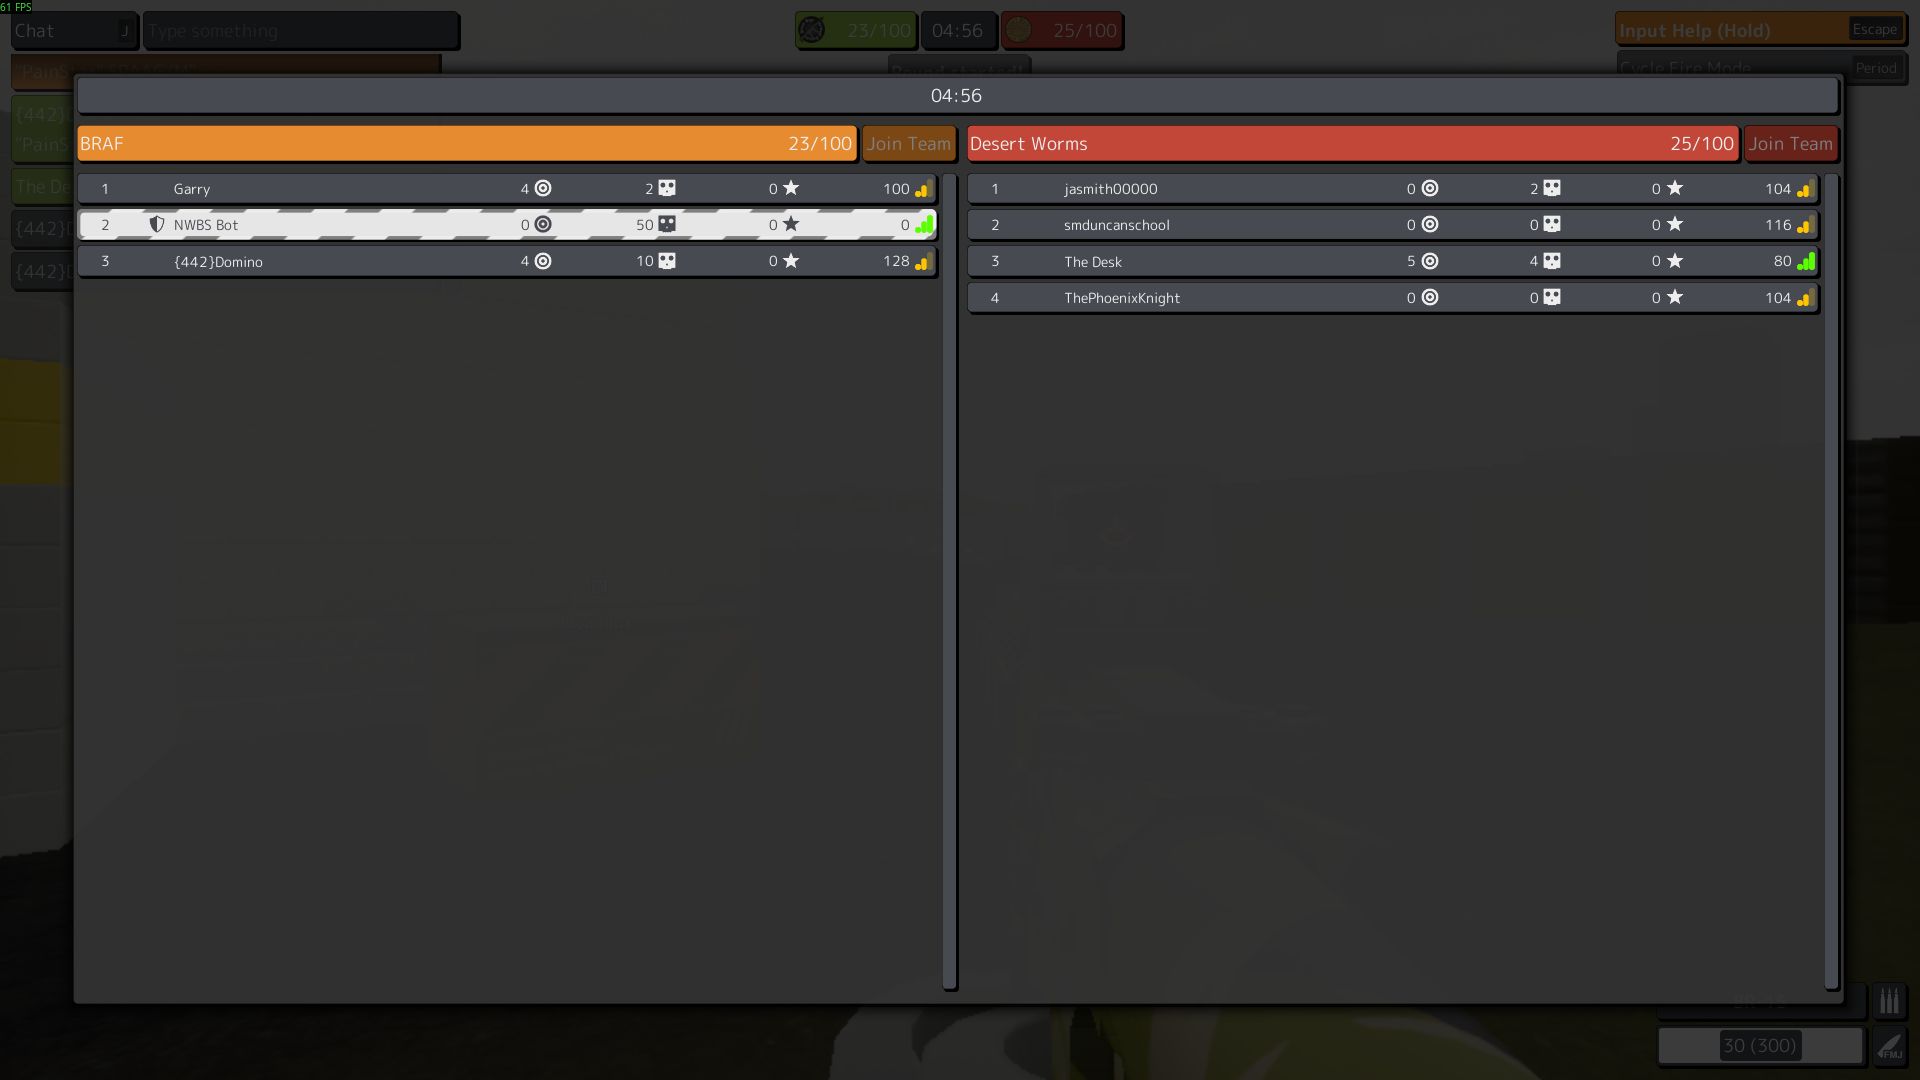
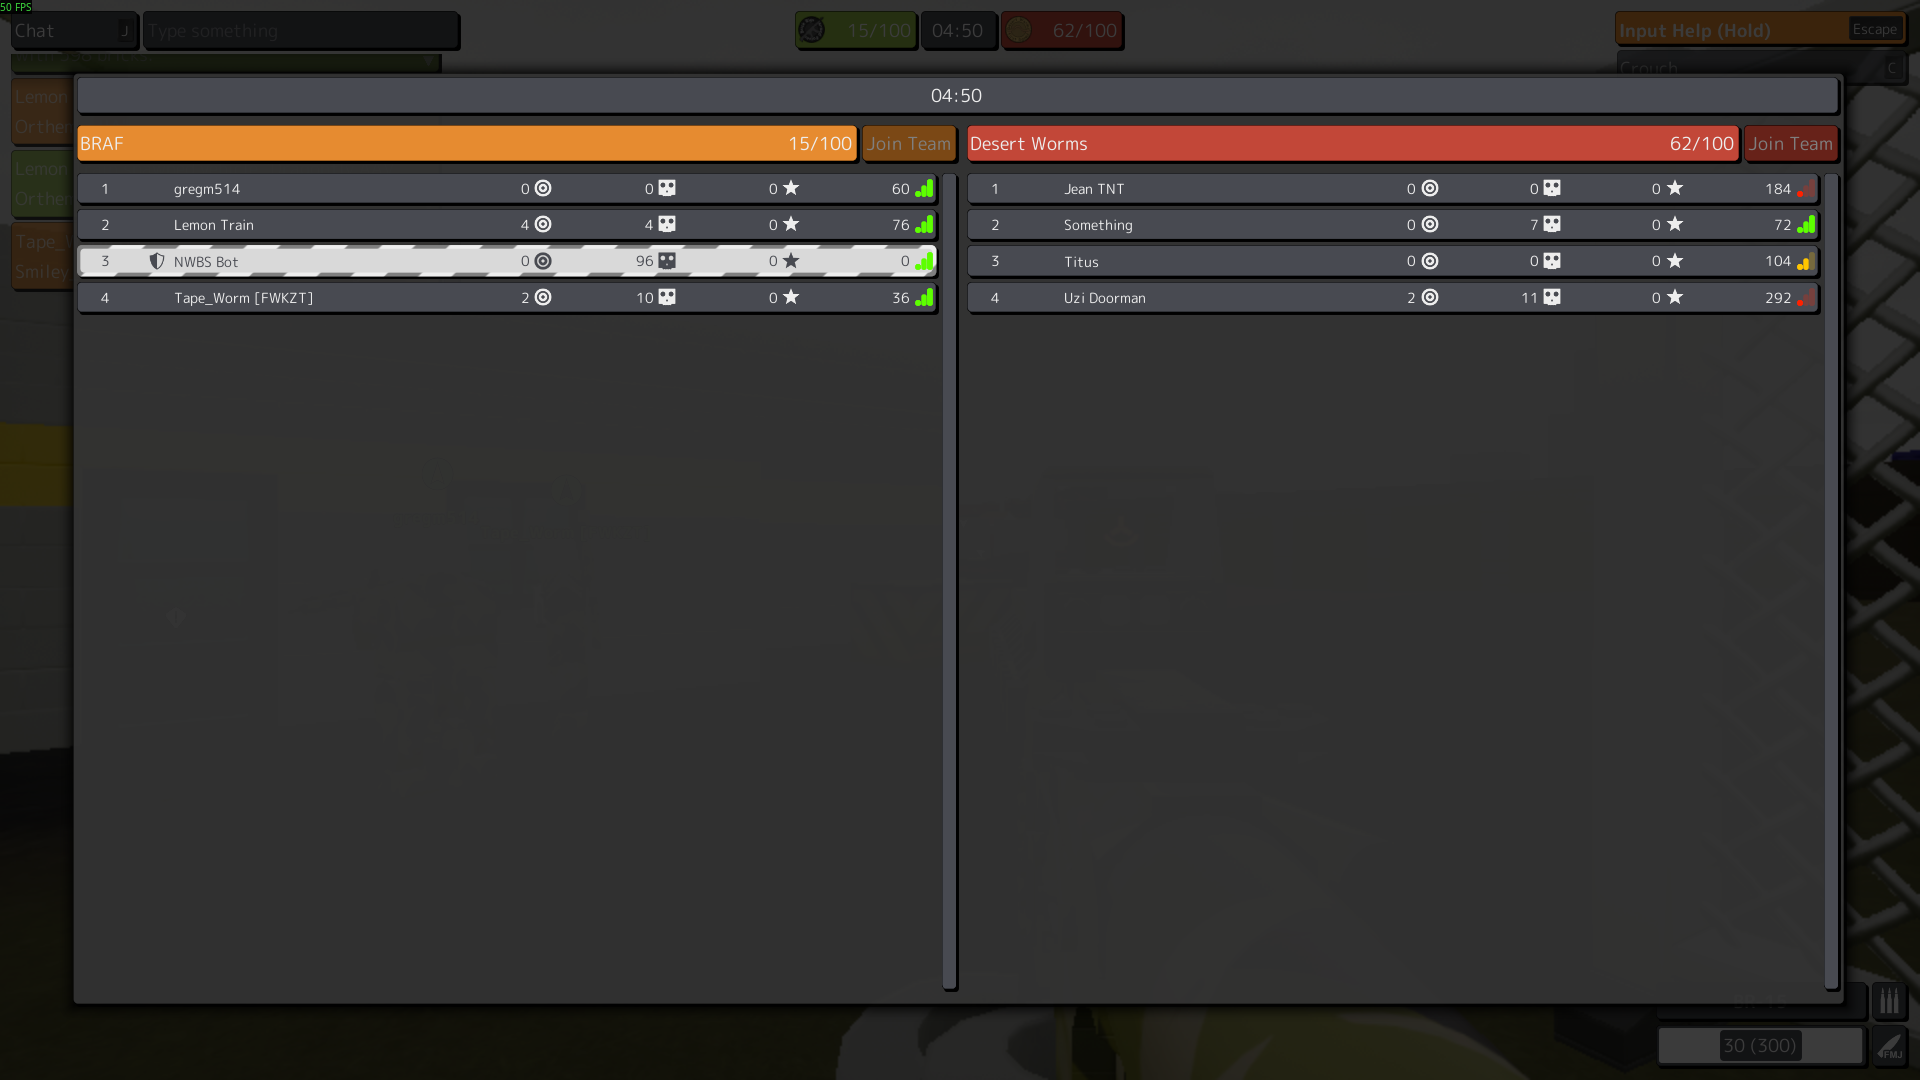
Added ban-by-name error handling

diff --git a/bin/main_ref.py b/bin/main_ref.py
@@ -394,20 +394,23 @@ async def banid(ctx, id: str, length: str = "10", *, reason: str = None):
         )
 
 
-@bot.command(name="ban", help="Bans a user by their steam64 ID")
+@bot.command(name="ban", help="Bans a user by their name")
 @commands.has_role("Bot Admin")
 async def ban(ctx, id: str, length: str = "10", *, reason: str = None):
 
     guild = ctx.guild
     idname = find_player_by_name(id)
-    if idname != "76561199656519803":
-        ban_response = await keyinputs.banid(idname, length, reason)
-        await ctx.send(ban_response)
-    else:
+    if idname =="76561199656519803":
         await ctx.send(
             ctx.author.mention
             + " You attempted to ban Jhudd the Magnificent, the Immortal, the Incredible. Refrain from doing so. "
         )
+        
+    elif idname != None:
+        ban_response = await keyinputs.banid(idname, length, reason)
+        await ctx.send(ban_response)
+    else:
+        await ctx.send("Could not find player name.")
 
 
 # Unban command
